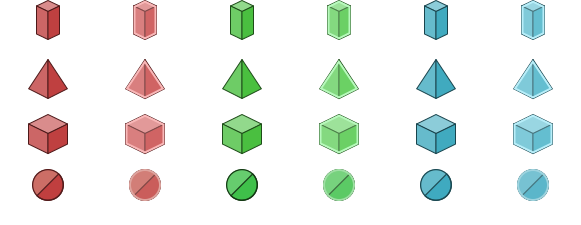
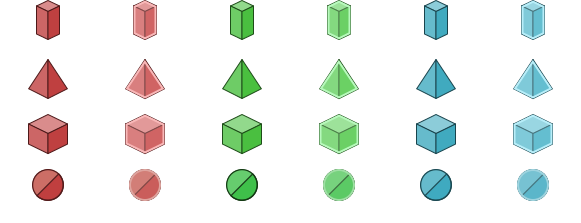
Tweak scout graphics

diff --git a/src/Screens/ScreenInit.cpp b/src/Screens/ScreenInit.cpp
@@ -404,12 +404,12 @@ ScreenInit::ScreenInit(Game * game)
             { 388, 112, 96, 54 },
             { 485, 112, 96, 54 },
             // unit 4
-            { 0, 169, 96, 56 },
-            { 96, 169, 96, 56 },
-            { 194, 169, 96, 56 },
-            { 291, 169, 96, 56 },
-            { 388, 169, 96, 56 },
-            { 485, 169, 96, 56 }
+            { 0, 169, 96, 54 },
+            { 96, 169, 96, 54 },
+            { 194, 169, 96, 54 },
+            { 291, 169, 96, 54 },
+            { 388, 169, 96, 54 },
+            { 485, 169, 96, 54 }
         };
 
         tm->RegisterSprite(SpriteFileUnits, rects);
